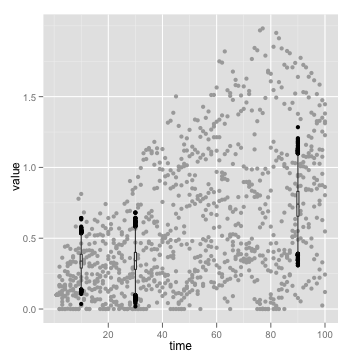
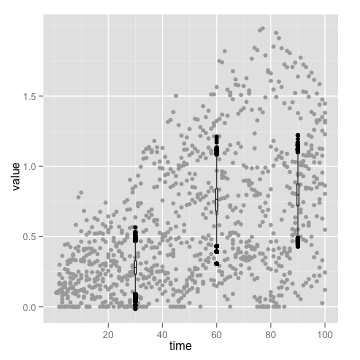
toy trend v status example, revised

diff --git a/monitoring_knit_.md b/monitoring_knit_.md
@@ -126,18 +126,6 @@ Tradeoff from status (left) to trend (right) with constant effort
 
 ### Applied  ###
 
-  
-
-
-## Other issues ##
-
-* power
-* identifiability              
-              
-### Example###
-
-
-
 #### Status ####
 
 Three "populations" sampled every 30 units
@@ -147,10 +135,11 @@ Three "populations" sampled every 30 units
 <!--begin.rcode est-recov-lik,echo=FALSE,cache=TRUE,warning=FALSE  
 require(bbmle)
 require(ggplot2)
+SAMPLE=c(3,6,9)
 
 r.m <- melt(r.d, id.vars=c('time'))
 g <- ggplot()+geom_point(aes(time, value), color='darkgrey', data=r.m)
-for(time in c(1,3,9)*10){
+for(time in SAMPLE*10){
   sub.d <- list(tot=t(sample(r.d[time,1:10], size=9)))
   ml.t <- mle2(tot~dnorm(mean=mu, sd=sigma), data=sub.d, start=list(mu=mean(sub.d$tot), sigma=sd(sub.d$tot)))
   post.t <- sample.naive.posterior(ml.t)
@@ -171,7 +160,7 @@ end.rcode-->
 <!--begin.rcode est-recov-bayes,echo=FALSE,cache=TRUE,warning=FALSE  
 g <- ggplot()+geom_point(aes(time, value), color='darkgrey', data=r.m)
 prior <- NULL
-for(time in c(1,3,9)*10){
+for(time in SAMPLE*10){
   sub.d <- list(tot=t(sample(r.d[time,1:10], size=9)))
   ml.t <- mle2(tot~dnorm(mean=mu, sd=sigma), data=sub.d, start=list(mu=mean(sub.d$tot), sigma=sd(sub.d$tot)))
   post.t <- sample.naive.posterior(ml.t)
@@ -241,6 +230,11 @@ end.rcode-->
 **Bayes**
 
 
+## Related issues ##
+
+* power
+* identifiability              
+              
   
 
 # Knitr #

diff --git a/monitoring.md b/monitoring.md
@@ -79,18 +79,6 @@ Tradeoff from status (left) to trend (right) with constant effort
 
 ### Applied  ###
 
-  
-
-
-## Other issues ##
-
-* power
-* identifiability              
-              
-### Example###
-
-
-
 #### Status ####
 
 Three "populations" sampled every 30 units
@@ -126,6 +114,11 @@ One "population" sampled every 10 units ...
 **Bayes**
 
 
+## Related issues ##
+
+* power
+* identifiability              
+              
   
 
 # Knitr #
